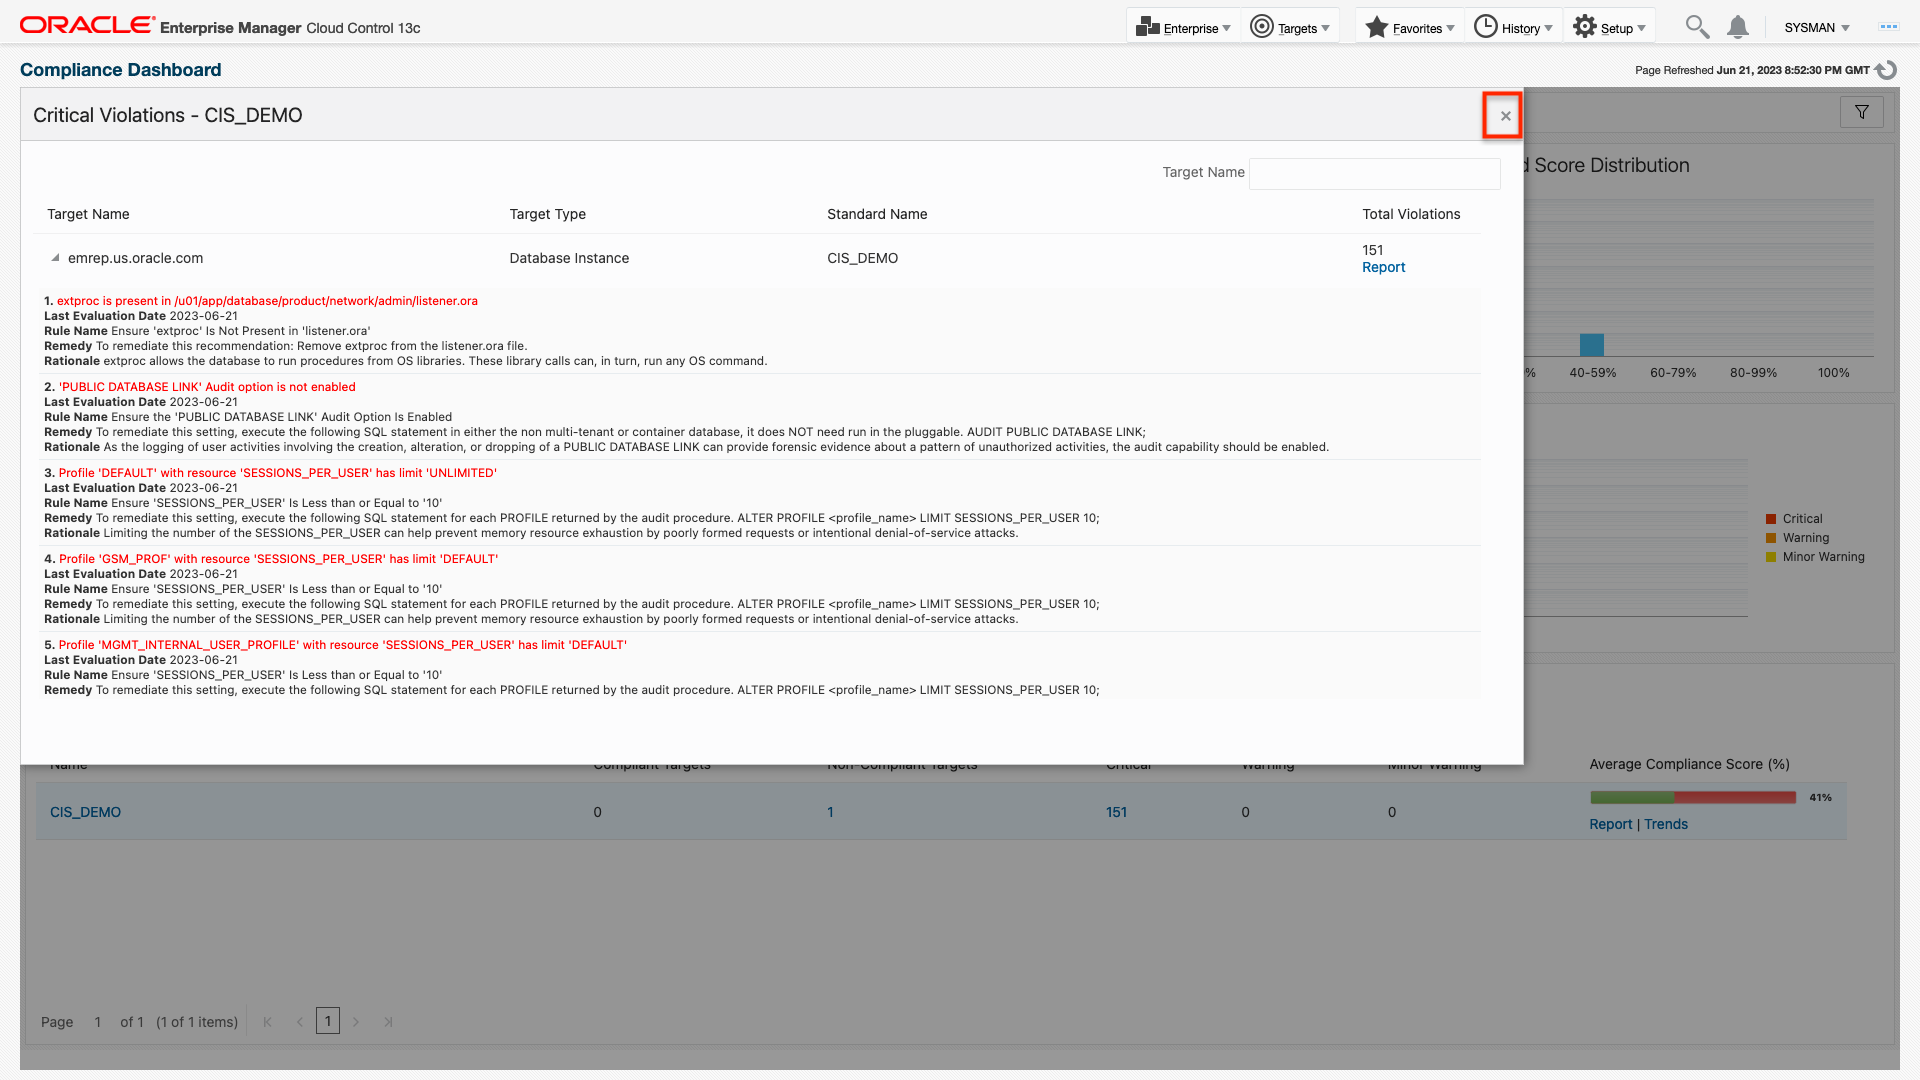
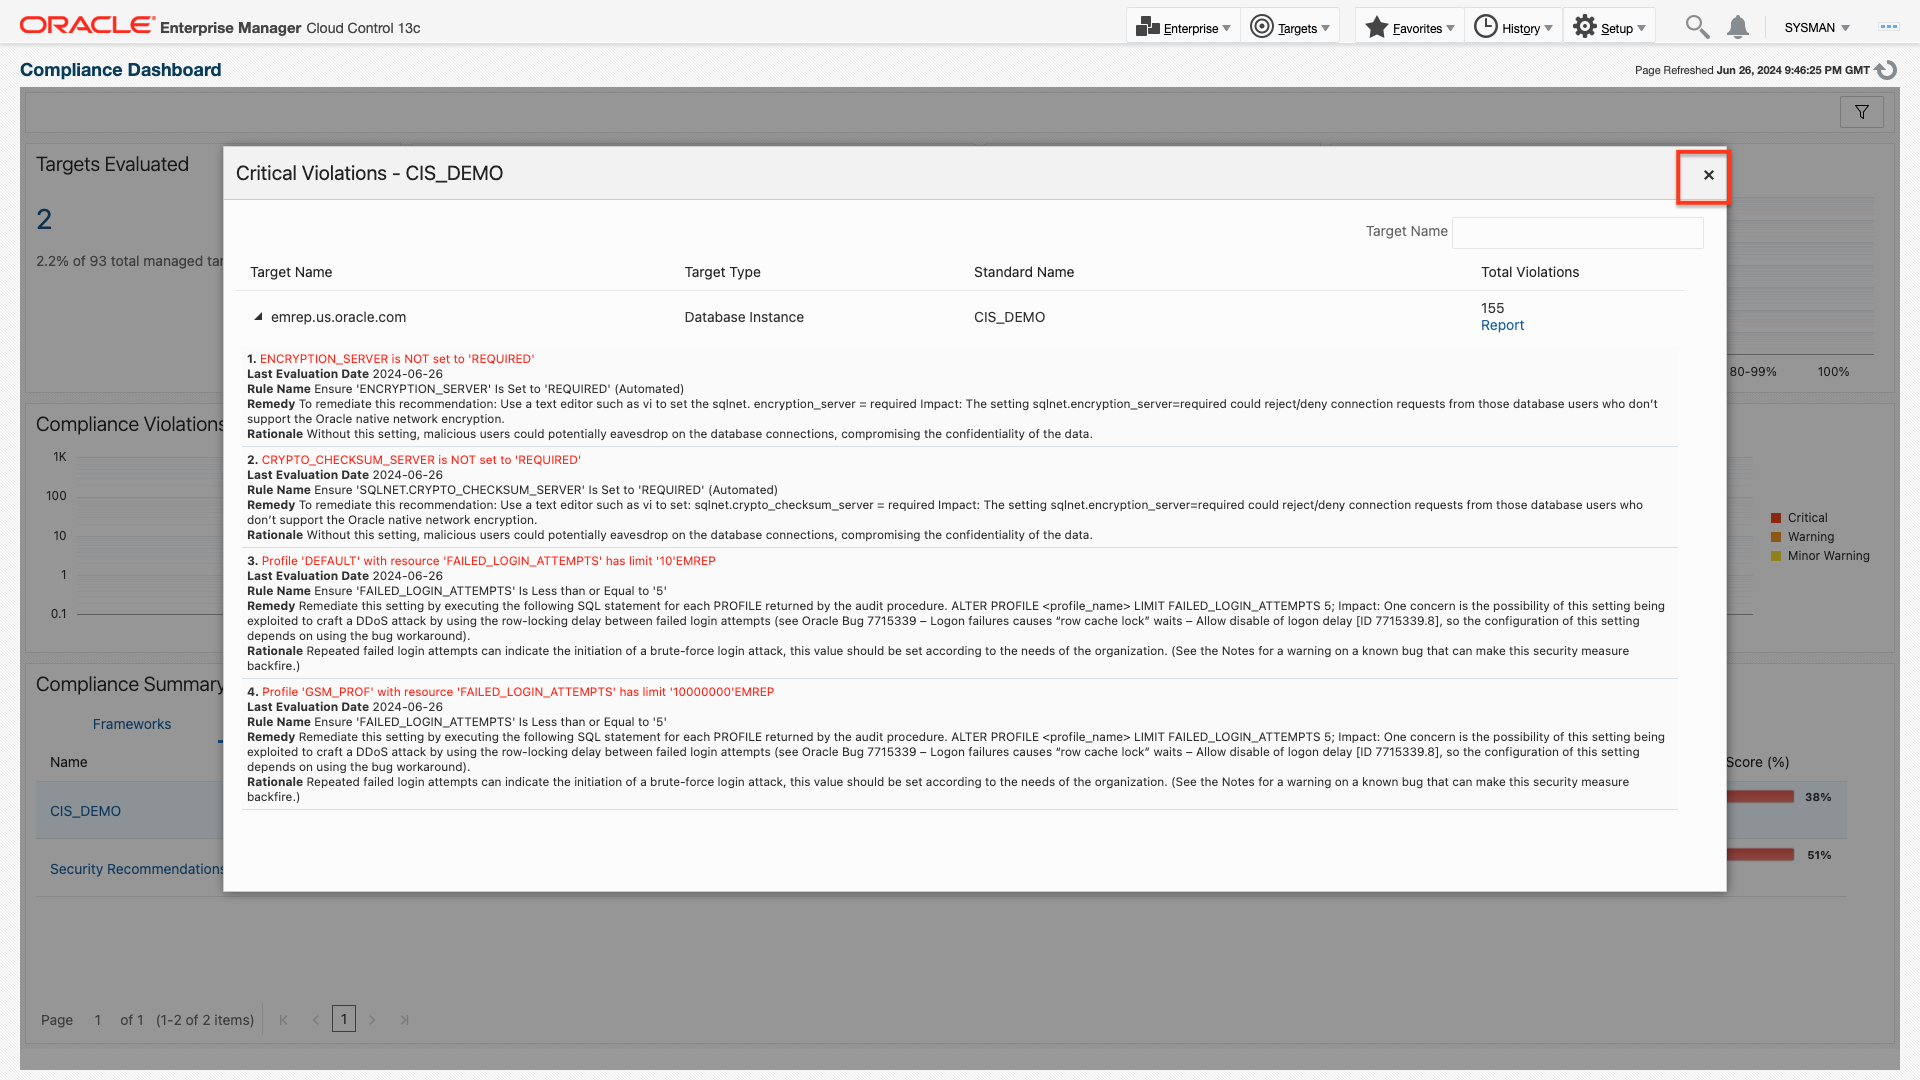
Md file updates

diff --git a/enterprise-manager/emcc/em-configuration-compliance-management/em-configuration-compliance-management.md b/enterprise-manager/emcc/em-configuration-compliance-management/em-configuration-compliance-management.md
@@ -494,7 +494,7 @@ Click the **Cancel** button.
 
     By clicking under Target Name.
 
-    ![cis-compliance-critical-violations-page](images/compliance-dashboard-evaluation.png " cis-compliance-critical-violations-page ")
+    ![cis-compliance-critical-violations-page](images/cis-compliance-critical-violations.png " cis-compliance-critical-violations-page ")
 
 18. Each rule name violated and rationale for the violation can be explored below, And also by clicking on Report.
 
@@ -508,7 +508,7 @@ Click the **Cancel** button.
 
     ![cis-demo-compliance-report2-page](images/cis-demo-compliance-report2.png " cis-demo-compliance-report2-page ")
     ![cis-demo-compliance-report3-page](images/cis-demo-compliance-report3.png " cis-demo-compliance-report3-page ")
-    ![cis-demo-compliance-report4-page](images/cis-demo-compliance-report4.png " cis-demo-compliance-report4-page ")
+    
 
 19. Click **X** to close Critical Violations window
 
